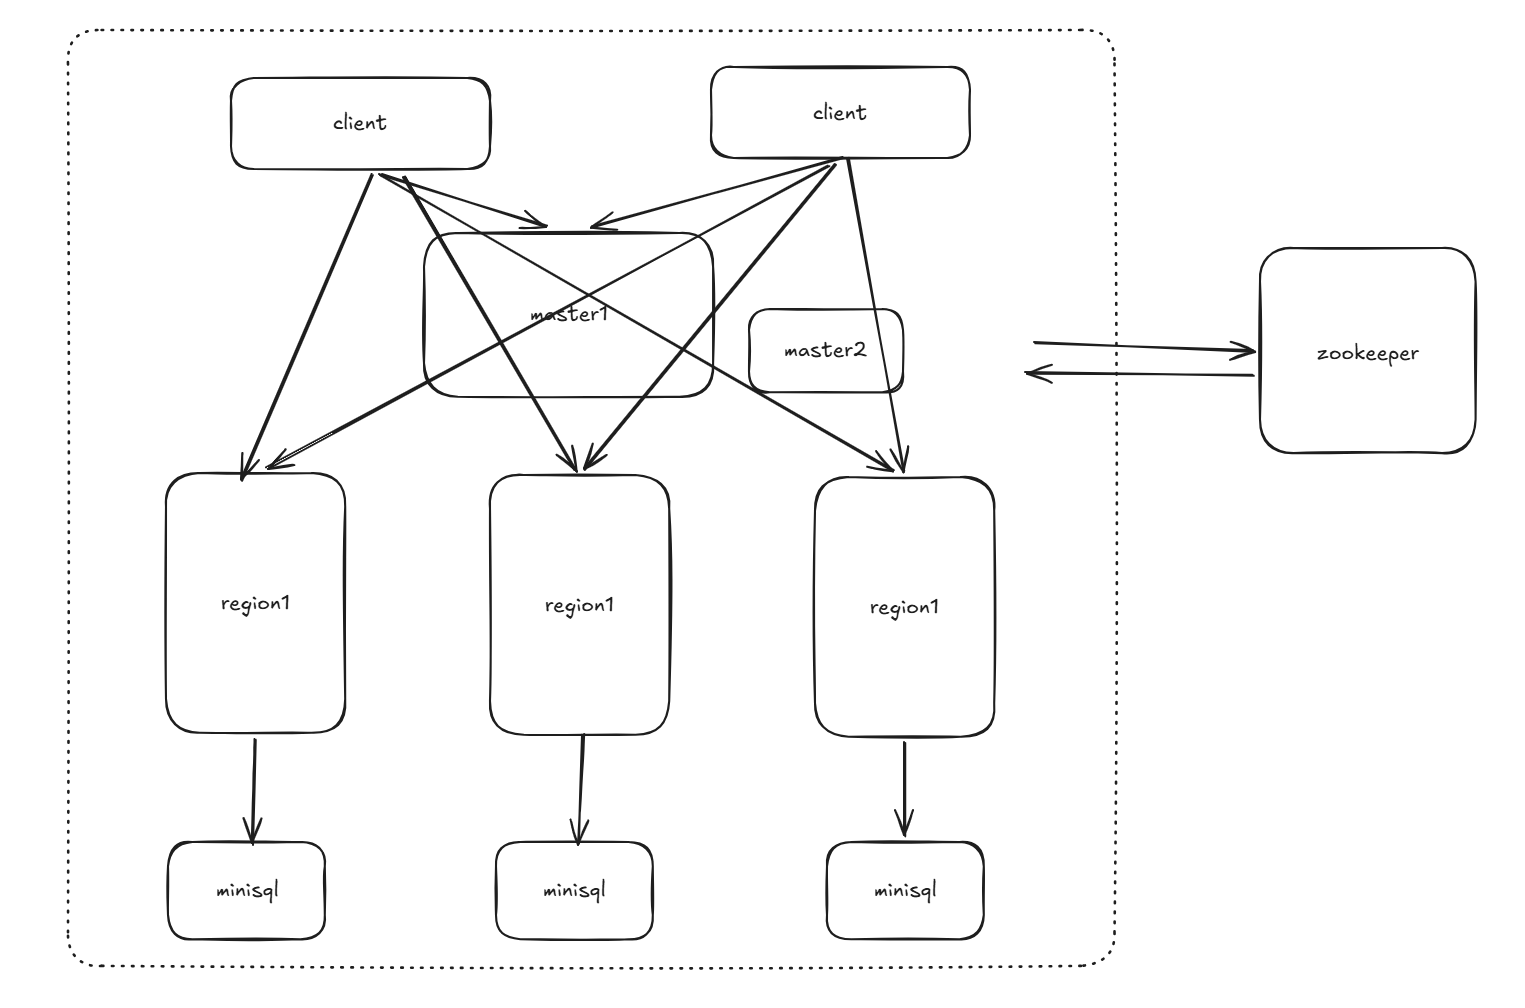
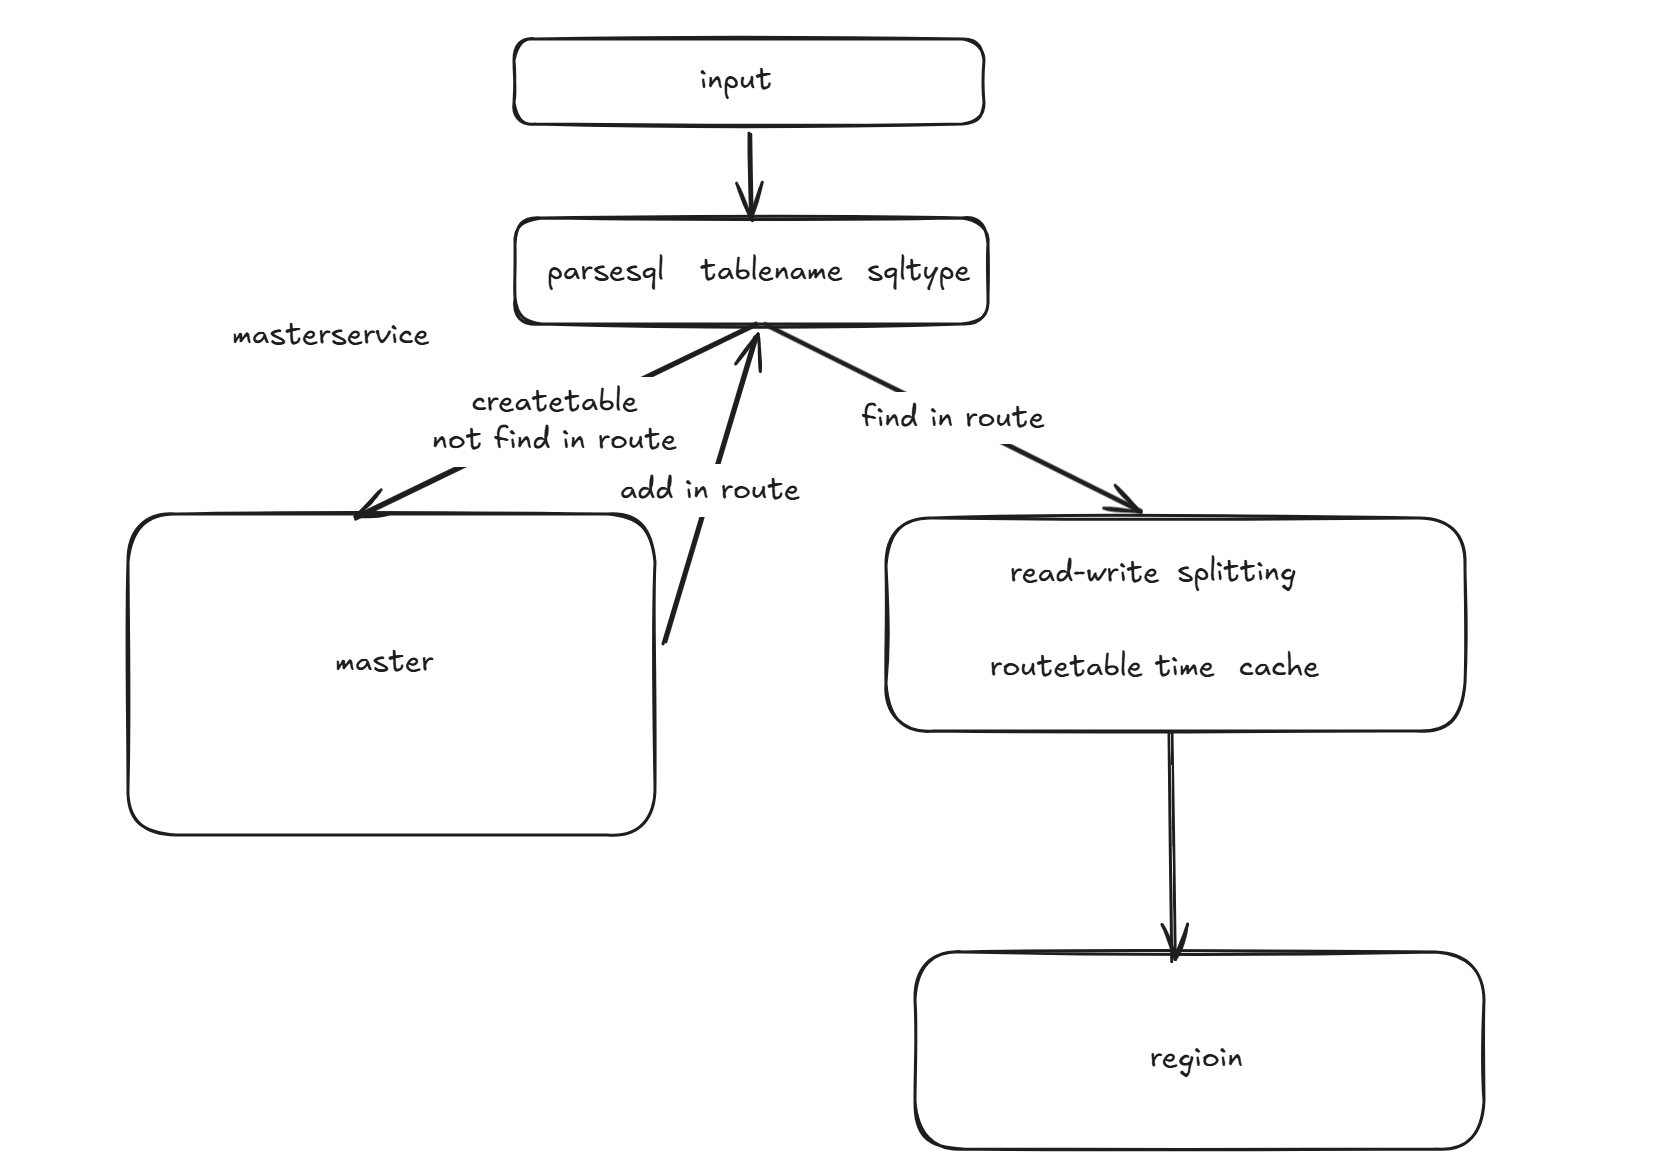
report

diff --git a/report.md b/report.md
@@ -3,14 +3,14 @@
 3240103356 李胡诚  完成所有部分
 ## 设计模块层
 整体架构图如下
-![alt text](image-1.png)
+![alt text](image-3.png)
 
 ### client
 为了应对高并发、节点动态上下线，故障转移，client被设计为
 无状态的智能客户端。
 
 无状态指其本身不会存储任何持久化数据，但可以处理部分业务路由
-![alt text](image.png)
+![alt text](image-1.png)
 **执行模块**
 ``` java
 public string execute(string sql)  //暴露对外的接口
@@ -84,7 +84,7 @@ public String GetStatus()
 
 ### region层
 Region 层是底层的物理存储与查询执行引擎，实现了读写高性能与数据强可靠：
-
+![alt text](image-4.png)
 #### 1. DatabaseManager（物理数据库管理器）
 *   **作用**：协调 SQL 解析器、单机存储引擎与主从复制管理器。
 *   **元数据落盘**：在 `catalog.meta` 中使用序列化技术持久化表结构（Schema）元数据，启动时调用 `loadCatalog()` 加载，建表时调用 `saveCatalog()` 刷盘。

diff --git a/README.md b/README.md
@@ -74,3 +74,16 @@ UPDATE users SET name = 'Alice New', age = '26' WHERE id = '1';
 DELETE FROM users WHERE id = '1';
 -- 删除不存在的记录
 DELETE FROM users WHERE id = '999';
+
+
+
+
+## 问题
+master层的table仅存储在内存
+
+可以存到zk里面
+
+
+region层的master挂了换一个当master
+
+
